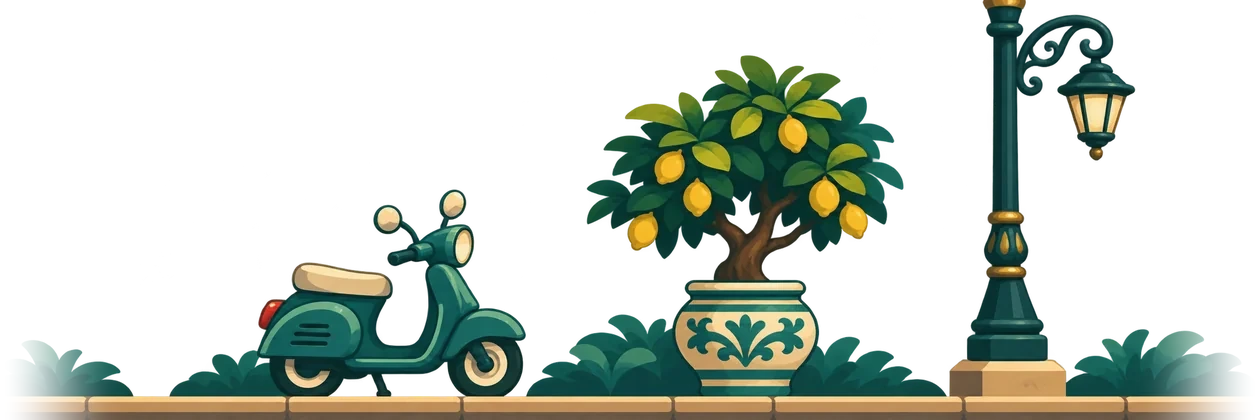
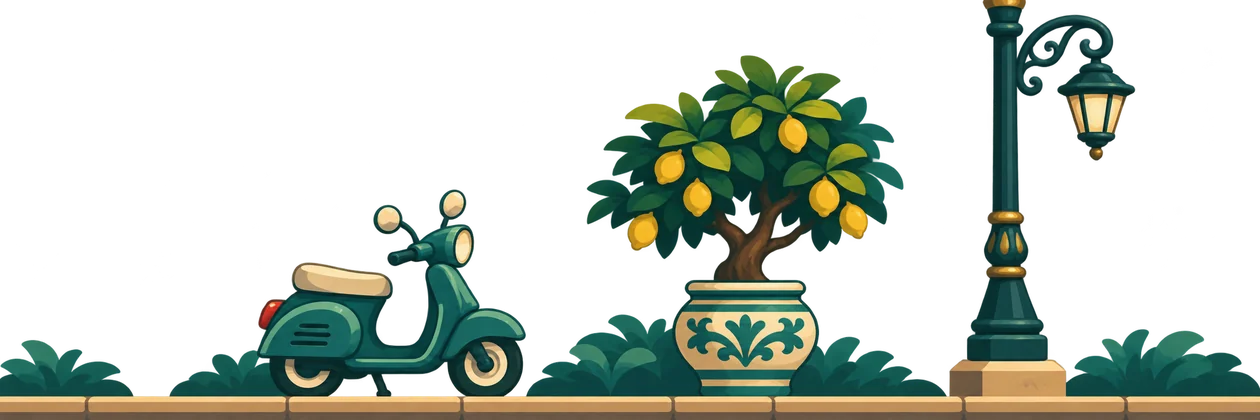
Gioco: niente decorazioni sfumate in primo piano (strisce originali o rimosse)
Claude-Session: https://claude.ai/code/session_01FJsy7QrKvKXY8MpGh3QYpc

Changed region(s): [[0.8976, 0.7738, 1.0, 1.0], [0.0, 0.8048, 0.0929, 1.0]]

diff --git a/public/gioco/glamood-run.js b/public/gioco/glamood-run.js
@@ -27,12 +27,12 @@ const LEVELS = [
     en: [{ i: 0, kind: 'fly', h: 30, fps: 9 }, { i: 1, kind: 'roll', h: 28, fps: 12 }, { i: 2, kind: 'fly', h: 26, fps: 10 }] },
   { id: 'L3', name: 'Centro e Castello', sub: 'Corso Garibaldi e il Castello Aragonese', sky: 'L3_01', skyNight: 'L3_01n', night: [.35, .65],
     layers: [{ n: 'L3_02', par: .08, h: 170, b: -40 }, { n: 'L3_03', par: .22, h: 175, b: -6 }, { n: 'L3_04', par: .42, h: 140, b: 3 }],
-    ground: 'L3_05', fg: { n: 'L3_06', par: 1.3, h: 120, b: 6, gap: 2.2 }, mon: { h: 190, par: .22, b: -4 },
+    ground: 'L3_05', fg: null, mon: { h: 190, par: .22, b: -4 },
     ob: [38, 48, 44, 58, 34, 62],
     en: [{ i: 0, kind: 'fly', h: 26, fps: 10 }, { i: 1, kind: 'hang', h: 60, fps: 5 }, { i: 2, kind: 'fly', h: 26, fps: 12 }] },
   { id: 'L4', name: 'Museo Archeologico', sub: 'I Bronzi e la Magna Grecia', sky: 'L4_01',
     layers: [{ n: 'L4_02', par: .1, h: 200, b: -12 }, { n: 'L4_03', par: .24, h: 165, b: -4 }, { n: 'L4_04', par: .45, h: 110, b: 3 }],
-    ground: 'L4_05', fg: { n: 'L4_06', par: 1.3, h: 120, b: 6, gap: 2.2 }, mon: { h: 190, par: .26, b: -2 },
+    ground: 'L4_05', fg: null, mon: { h: 190, par: .26, b: -2 },
     ob: [36, 48, 62, 24, 50, 36],
     en: [{ i: 0, kind: 'fly', h: 28, fps: 10 }, { i: 1, kind: 'fly', h: 26, fps: 10 }, { i: 2, kind: 'hang', h: 62, fps: 5 }] },
 ];
